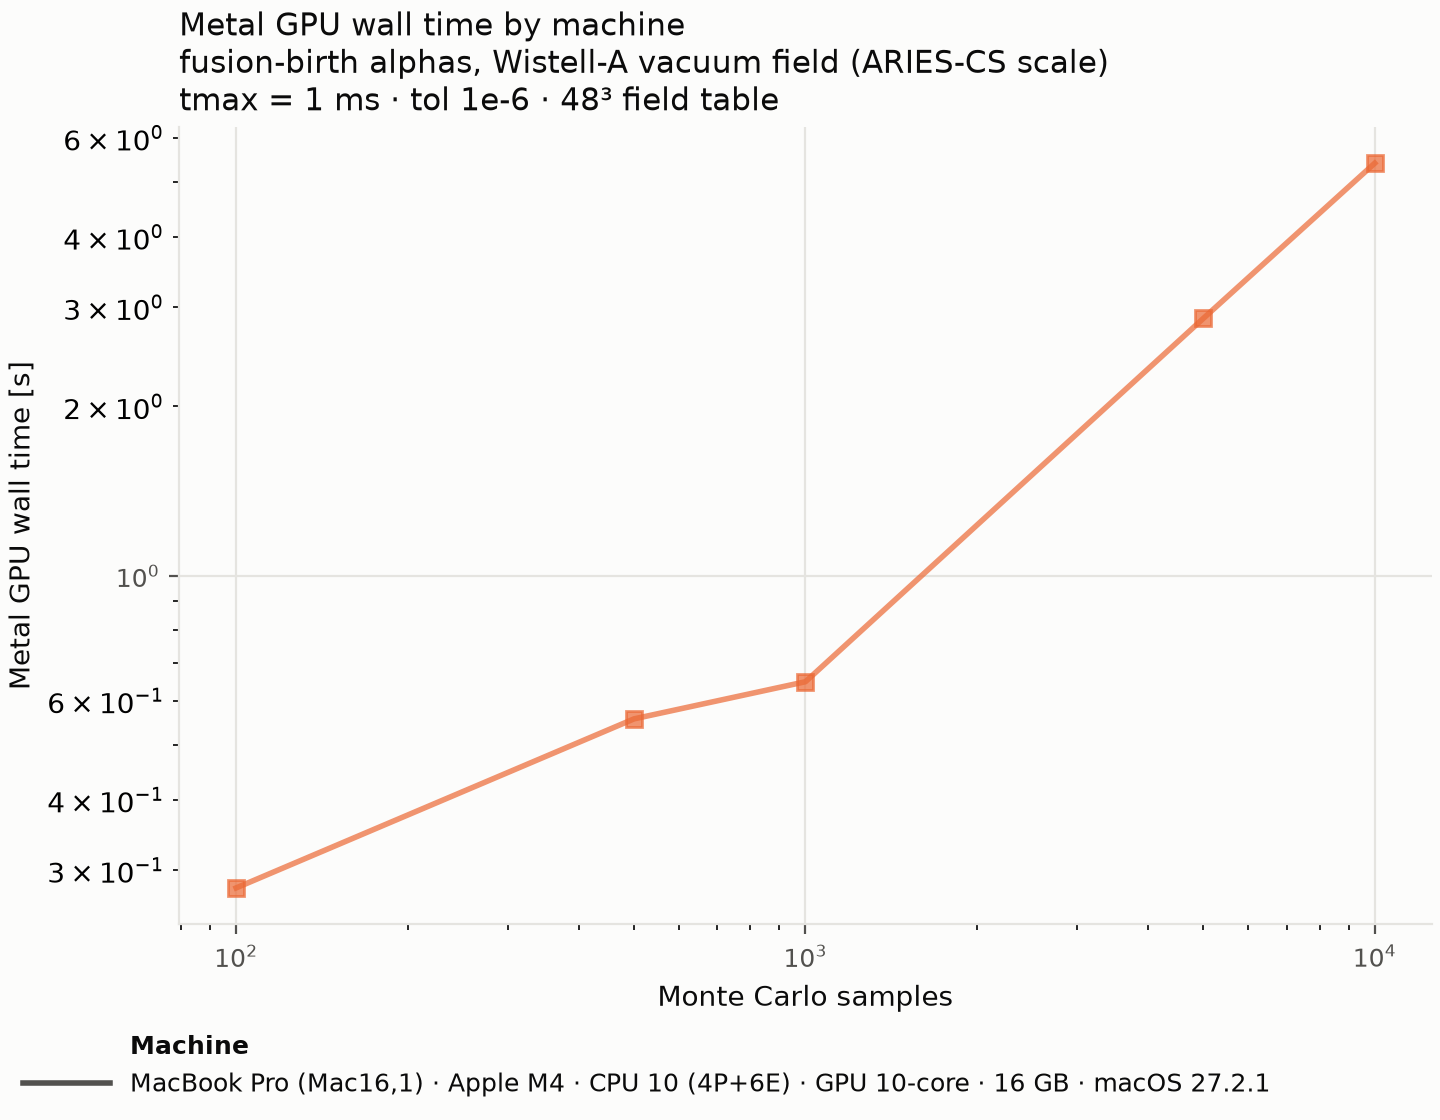
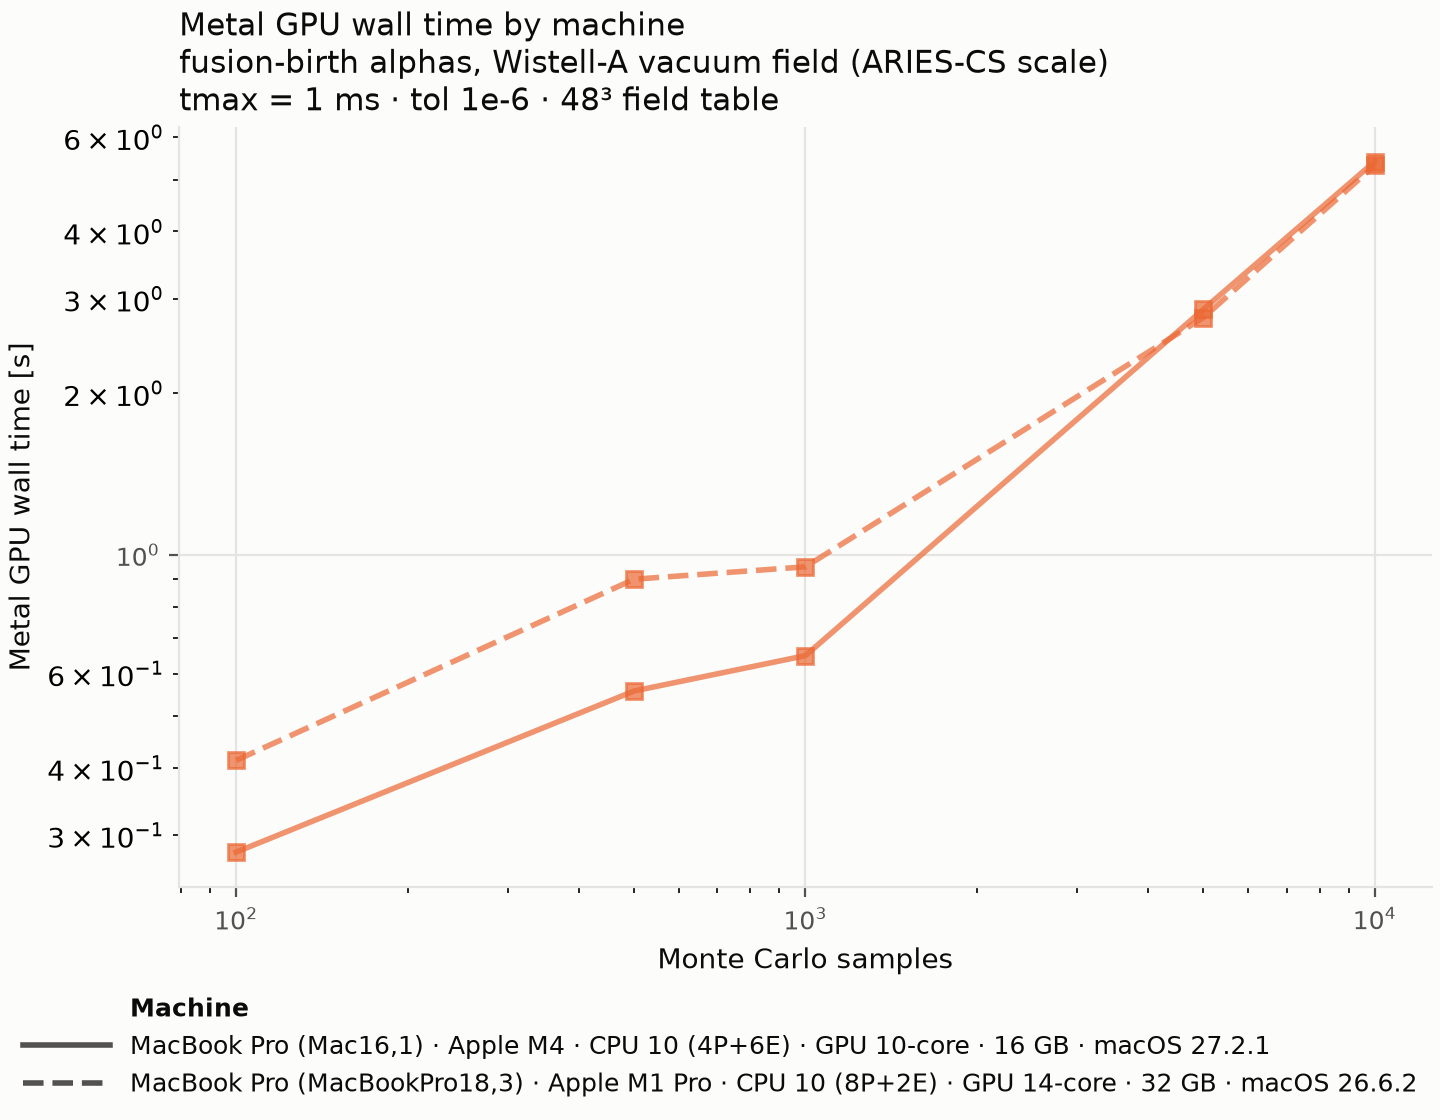
chore: plot the M1 Pro runs beside the M4
Adds mczek's M1 Pro runs of both benchmarks (the previous commit) to the
plots and tables. Both ran on a4d75524 with a matching Metal build; they are
each machine's latest, and his 2026-11-09 run on older code is left out.

His CPU results are byte-identical to the M4's on both benchmarks, and his
GPU results pass the physics check against the M4's: 44 / 44 alphas lost,
and conservation median drifts within 1% cell by cell. The conservation
leg finished res 48 at tol 1e-10, where the fixed 1000-step dispatches had
crashed it. Speedups read 6.9x (alpha-loss validation, 194.4 s / 28.3 s)
and 4.9x (conservation, at the GPU's best). The 14-core M1 Pro GPU only
matches the 10-core M4 GPU at 5000-10000 markers; most of the higher
speedups come from its slower CPU leg.

diff --git a/benchmarks/alpha-loss-wistell-a.md b/benchmarks/alpha-loss-wistell-a.md
@@ -40,6 +40,7 @@ Two workloads, defined once in `alpha-loss-wistell-a.yaml`:
 | Machine | CPU ranks | 10,000 × 1 ms: CPU / GPU | Speedup | 5,000 × 10 ms: CPU / GPU | Speedup | Lost, CPU / GPU |
 | --- | --- | --- | --- | --- | --- | --- |
 | MacBook Pro (Mac16,1) · Apple M4 · CPU 10 (4P+6E) · GPU 10-core · 16 GB · macOS 27.2.1 | 10 | 33.1 s / 5.4 s | 6.1× | 165.4 s / 28.4 s | 5.8× | 44 / 42 |
+| MacBook Pro (MacBookPro18,3) · Apple M1 Pro · CPU 10 (8P+2E) · GPU 14-core · 32 GB · macOS 26.6.2 | 10 | 39.1 s / 5.3 s | 7.4× | 194.4 s / 28.3 s | 6.9× | 44 / 44 |
 <!-- markdownlint-enable MD013 -->
 <!-- /make_plots:summary -->
 
@@ -73,6 +74,7 @@ comparison, free of each machine's CPU baseline.*
 | Machine | CPU vs GPU | Reference GPU vs GPU | Reference CPU vs CPU | Check |
 | --- | --- | --- | --- | --- |
 | MacBook Pro (Mac16,1) · Apple M4 · CPU 10 (4P+6E) · GPU 10-core · 16 GB · macOS 27.2.1 | 8 fates differ (5 / 3), p 0.73; losses -5% (95% CI -15% to +9%); loss time ×1.001, p 0.39 | reference | reference | pass |
+| MacBook Pro (MacBookPro18,3) · Apple M1 Pro · CPU 10 (8P+2E) · GPU 14-core · 32 GB · macOS 26.6.2 | 10 fates differ (5 / 5), p 1; losses +0% (95% CI -14% to +14%); loss time ×1.001, p 0.08 | 12 fates differ (5 / 7), p 0.77; losses +5% (95% CI -13% to +20%); loss time ×1.000, p 0.45 | identical | pass |
 <!-- markdownlint-enable MD013 -->
 <!-- /make_plots:physics -->
 

diff --git a/benchmarks/conservation-qh.md b/benchmarks/conservation-qh.md
@@ -55,6 +55,7 @@ data.
 | Machine | CPU ranks | Best median drift, CPU | Best median drift, GPU | Tracing to the GPU's best, CPU / GPU | Speedup | With field builds |
 | --- | --- | --- | --- | --- | --- | --- |
 | MacBook Pro (Mac16,1) · Apple M4 · CPU 10 (4P+6E) · GPU 10-core · 16 GB · macOS 27.2.1 | 10 | 1.7e-07 (64³, tol 1e-10) | 1.9e-06 (32³, tol 1e-8) | 3.43 s (16³, tol 1e-8) / 0.85 s (32³, tol 1e-8) | 4.0× | 0.9× |
+| MacBook Pro (MacBookPro18,3) · Apple M1 Pro · CPU 10 (8P+2E) · GPU 14-core · 32 GB · macOS 26.6.2 | 10 | 1.7e-07 (64³, tol 1e-10) | 1.9e-06 (32³, tol 1e-8) | 4.54 s (32³, tol 1e-8) / 0.92 s (32³, tol 1e-8) | 4.9× | 0.9× |
 <!-- markdownlint-enable MD013 -->
 <!-- /make_plots:summary -->
 
@@ -113,6 +114,7 @@ bitwise identical between them.
 | Machine | GPU drifts vs reference GPU | CPU drifts vs reference CPU |
 | --- | --- | --- |
 | MacBook Pro (Mac16,1) · Apple M4 · CPU 10 (4P+6E) · GPU 10-core · 16 GB · macOS 27.2.1 | reference | reference |
+| MacBook Pro (MacBookPro18,3) · Apple M1 Pro · CPU 10 (8P+2E) · GPU 14-core · 32 GB · macOS 26.6.2 | median ratio ×1.000, p 0.00032 | identical |
 <!-- markdownlint-enable MD013 -->
 <!-- /make_plots:agreement -->
 

diff --git a/benchmarks/README.md b/benchmarks/README.md
@@ -13,6 +13,7 @@ from every contributor's Mac are filed here and plotted together.
 | Machine | Alpha losses: speedup, 5,000 × 10 ms | Alpha losses: GPU vs CPU markers lost (95% CI) | Conservation: best median drift, CPU / GPU | Conservation: speedup at the GPU's best (with builds) |
 | --- | --- | --- | --- | --- |
 | MacBook Pro (Mac16,1) · Apple M4 · CPU 10 (4P+6E) · GPU 10-core · 16 GB · macOS 27.2.1 | 5.8× | -5% (-15% to +9%) | 1.7e-07 / 1.9e-06 | 4.0× (0.9×) |
+| MacBook Pro (MacBookPro18,3) · Apple M1 Pro · CPU 10 (8P+2E) · GPU 14-core · 32 GB · macOS 26.6.2 | 6.9× | +0% (-14% to +14%) | 1.7e-07 / 1.9e-06 | 4.9× (0.9×) |
 <!-- markdownlint-enable MD013 -->
 <!-- /make_plots:at-a-glance -->
 
